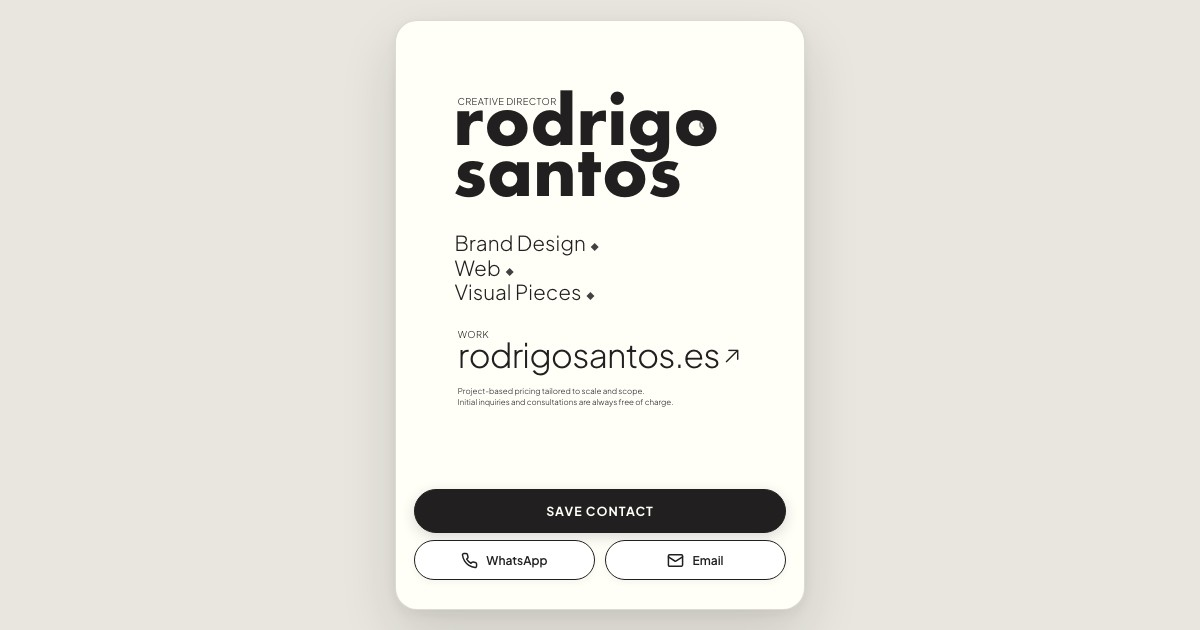
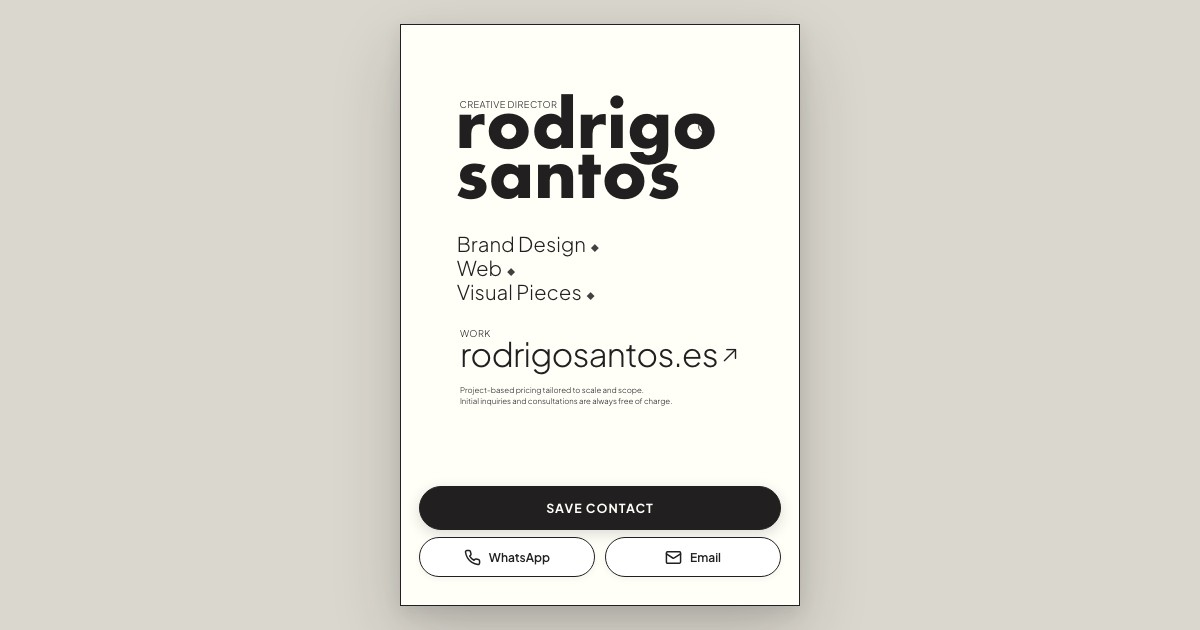
style(vcard): rectangular card with sharp 90-degree corners and defined physical contour

diff --git a/src/components/VirtualCard/VirtualCard.css b/src/components/VirtualCard/VirtualCard.css
@@ -7,7 +7,7 @@
    - Embedded Futura-Bold webfont for cross-platform fidelity
    - Typography: Plus Jakarta Sans 300
    - Calm Eye animation drifting smoothly along the 'o'
-   - Visible card contour with rounded corners on mobile & desktop
+   - Sharp rectangular card contour (border-radius: 0) matching physical artboard
    - Black primary action button & generous touch capsules
    ======================================================= */
 
@@ -29,20 +29,20 @@
   display: flex;
   justify-content: center;
   align-items: center;
-  background-color: #EDECE5;
+  background-color: #E2DFD7;
   color: #221F20;
   font-family: 'Plus Jakarta Sans', -apple-system, BlinkMacSystemFont, 'Segoe UI', Roboto, sans-serif;
   -webkit-font-smoothing: antialiased;
   -moz-osx-font-smoothing: grayscale;
-  padding: clamp(8px, 2vh, 18px) clamp(10px, 3.2vw, 16px);
+  padding: clamp(10px, 2.4vh, 20px) clamp(12px, 3.8vw, 18px);
   margin: 0;
   box-sizing: border-box;
 }
 
-/* Card Container with clearly visible contour, rounded edges and gentle shadow */
+/* Sharp Rectangular Business Card with Defined Contour */
 .vcard-container {
   width: 100%;
-  max-width: 410px;
+  max-width: 400px;
   height: 100%;
   max-height: 100%;
   box-sizing: border-box;
@@ -51,21 +51,21 @@
   flex-direction: column;
   justify-content: space-between;
   align-items: center;
-  padding: clamp(8px, 1.6vh, 16px) clamp(12px, 3.2vw, 18px) clamp(18px, 3.4vh, 28px);
-  border: 1.2px solid rgba(34, 31, 32, 0.16);
-  border-radius: clamp(14px, 3.5vw, 22px);
-  box-shadow: 0 10px 32px rgba(34, 31, 32, 0.08), 0 2px 8px rgba(34, 31, 32, 0.04);
+  padding: clamp(8px, 1.6vh, 16px) clamp(12px, 3.2vw, 18px) clamp(16px, 3.2vh, 26px);
+  border: 1.4px solid #221F20;
+  border-radius: 0;
+  box-shadow: 0 16px 42px rgba(34, 31, 32, 0.16), 0 3px 10px rgba(34, 31, 32, 0.08);
   overflow: hidden;
 }
 
 @media (min-width: 521px) {
   .vcard-page {
-    background-color: #E8E6DE;
-    padding: 20px;
+    background-color: #DAD7CE;
+    padding: 24px;
   }
   .vcard-container {
-    height: min(860px, calc(100dvh - 40px));
-    box-shadow: 0 24px 56px rgba(34, 31, 32, 0.14), 0 4px 12px rgba(34, 31, 32, 0.05);
+    height: min(860px, calc(100dvh - 48px));
+    box-shadow: 0 28px 64px rgba(34, 31, 32, 0.20), 0 6px 16px rgba(34, 31, 32, 0.10);
   }
 }
 
